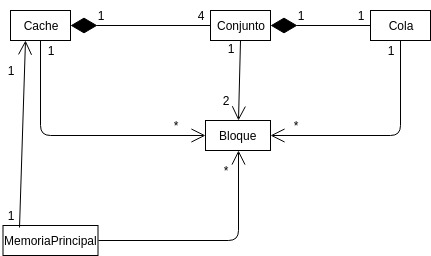
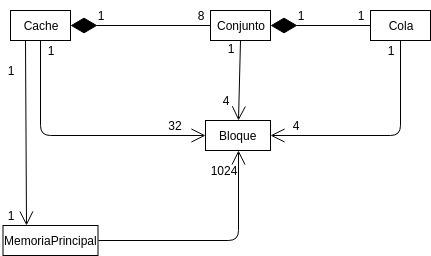
agrego link al informe y modifico diagramas

diff --git a/README.md b/README.md
@@ -1,2 +1,4 @@
 # Trabajo práctico N° 2 de Organización de Computadoras
 
+Link al informe: https://www.overleaf.com/3852926138kfwbjfkrgqyq
+
